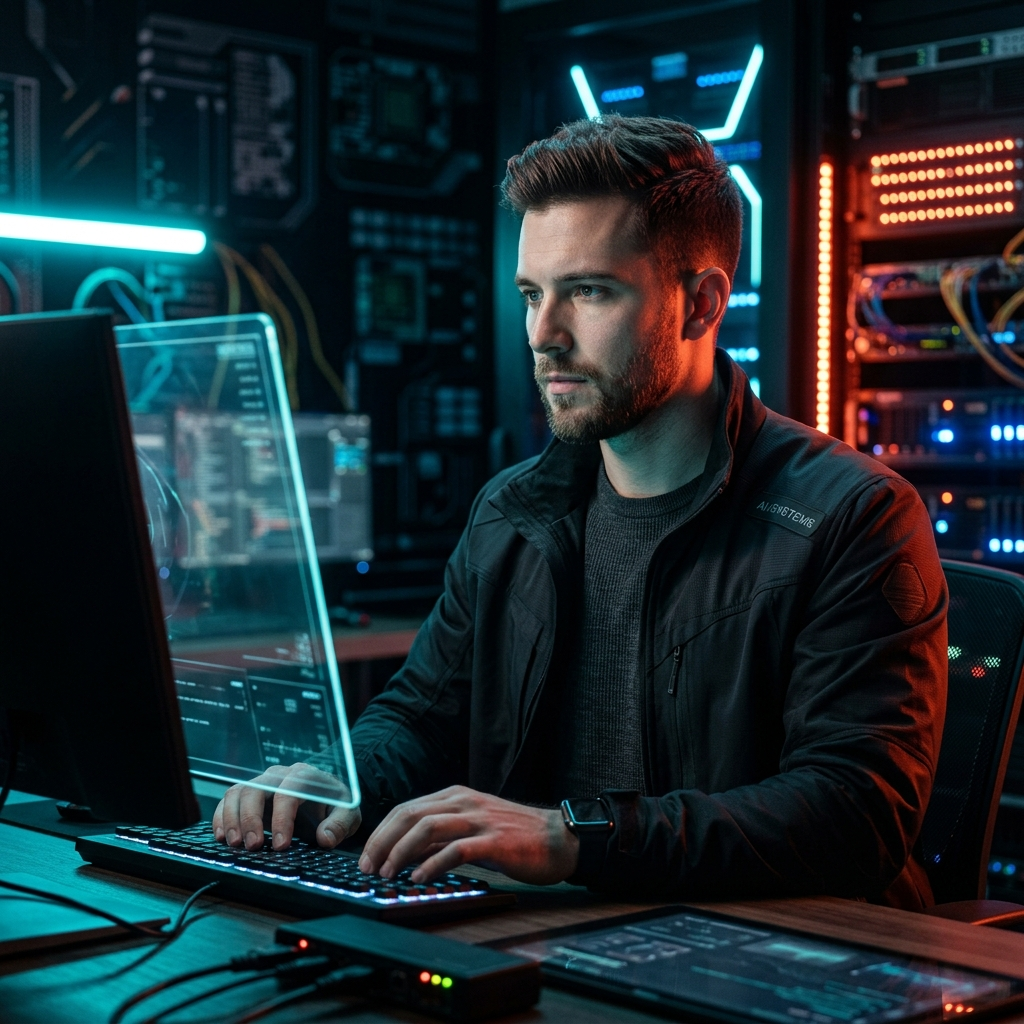
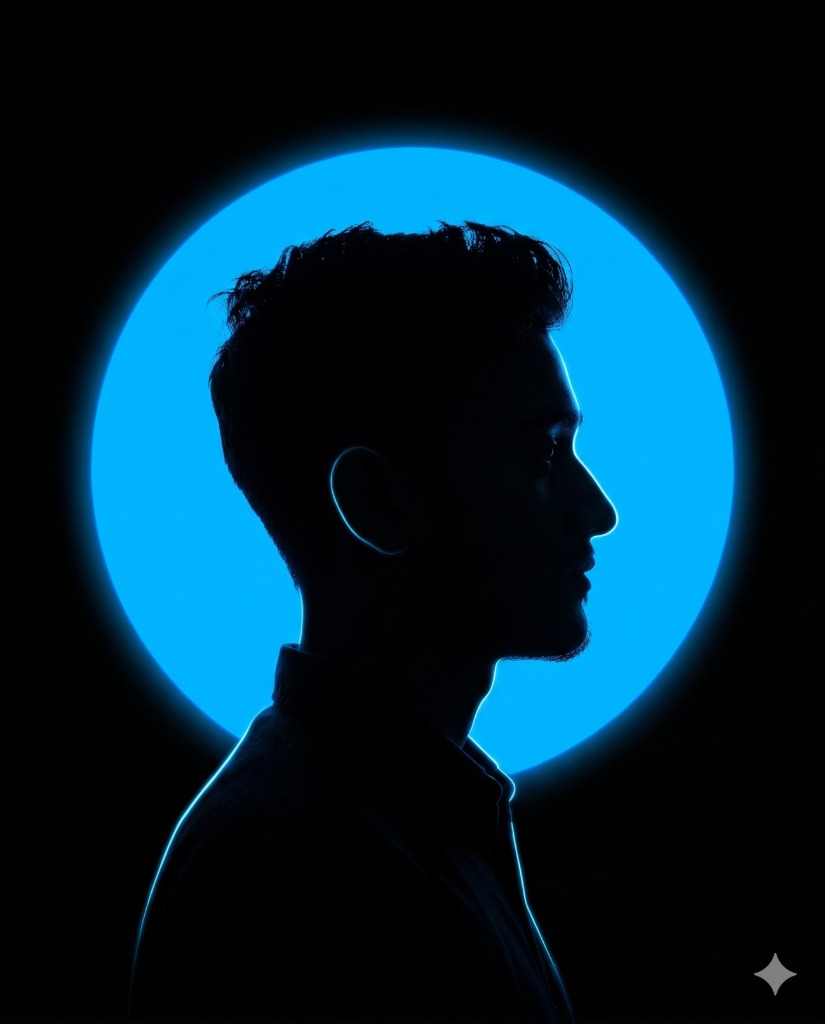
feat: use silhouette profile photo as portrait asset and background watermark

diff --git a/src/components/sections/Hero.tsx b/src/components/sections/Hero.tsx
@@ -53,6 +53,16 @@ export function Hero() {
         />
       </div>
 
+      {/* Ambient Silhouette Background Watermark */}
+      <div
+        className="pointer-events-none absolute inset-0 z-0 opacity-[0.08] mix-blend-screen bg-cover bg-center md:bg-right-bottom select-none"
+        style={{
+          backgroundImage: "url('/images/portrait.png')",
+          backgroundRepeat: 'no-repeat',
+        }}
+        aria-hidden="true"
+      />
+
       <Container className="relative z-[1] flex flex-col items-center text-center">
         {/* Eyebrow Label */}
         <motion.div